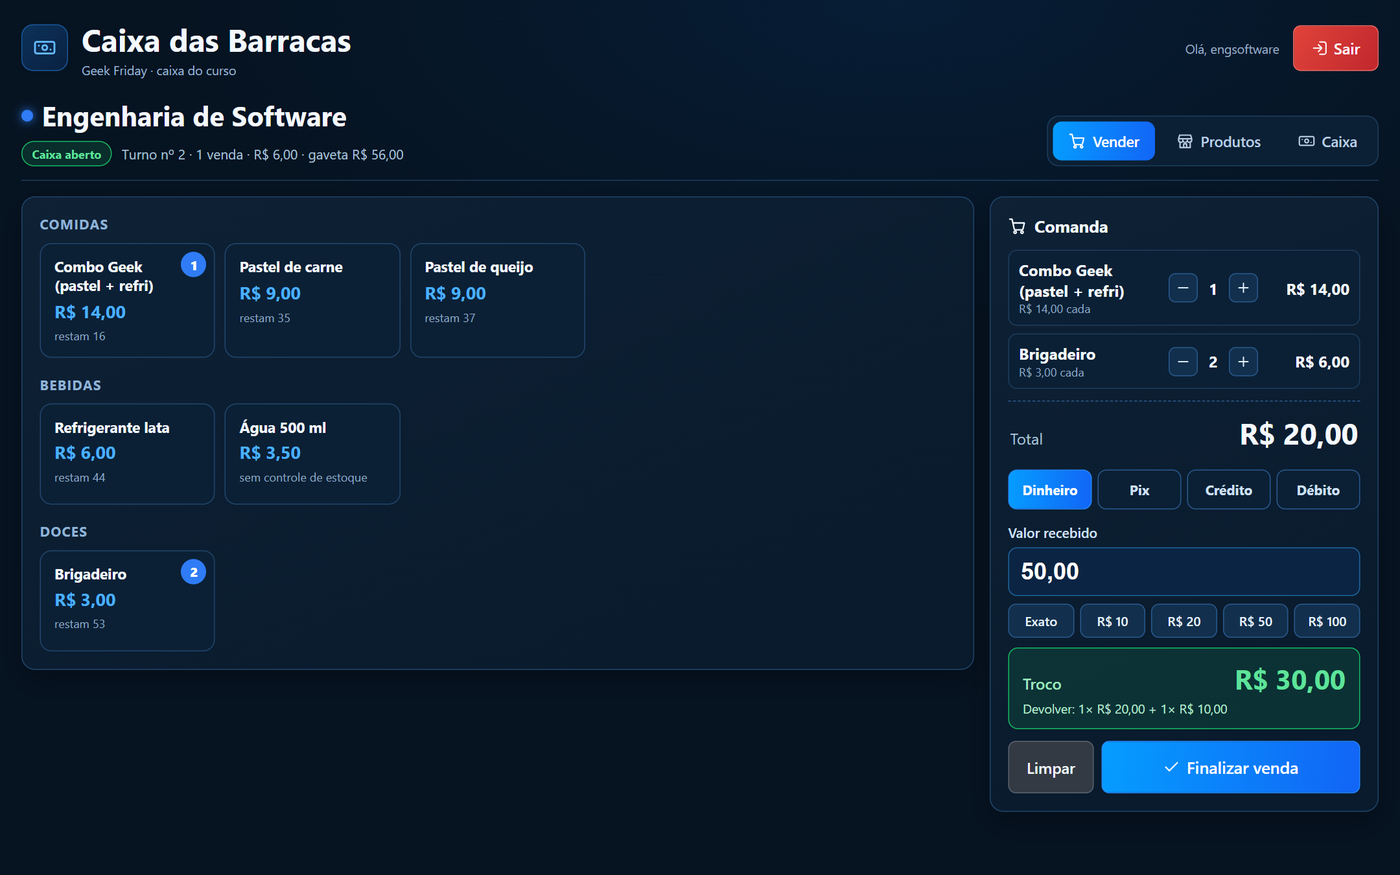
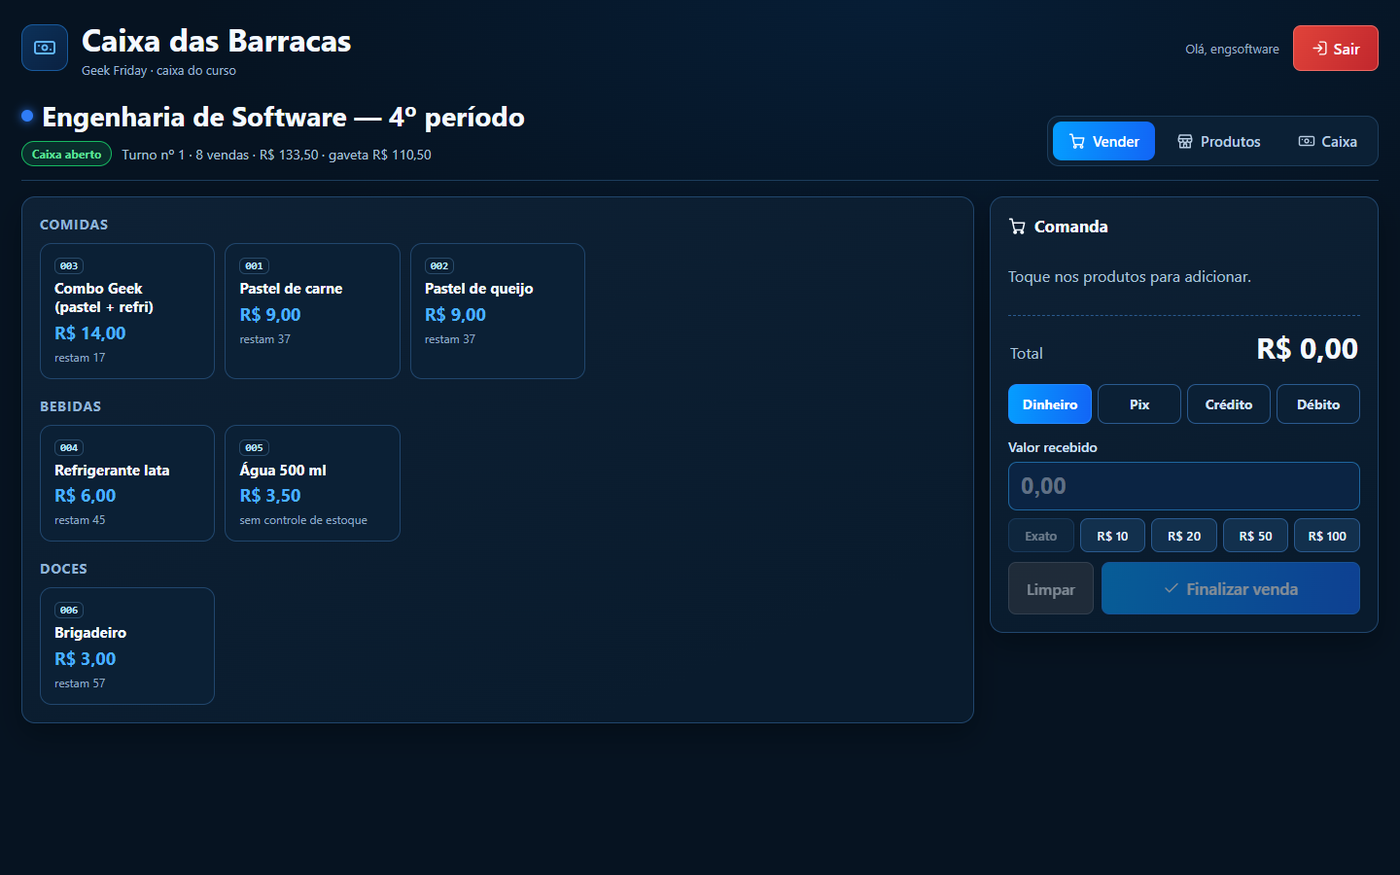
Vitrine: aba Segurança, código de produto, gráficos do turno e barraca própria
Prints novos com dados fictícios, funcionalidades e requisitos do módulo
Segurança, números de testes atualizados e participação no projeto.

diff --git a/README.md b/README.md
@@ -5,7 +5,7 @@
 ![TypeScript](https://img.shields.io/badge/TypeScript-3178C6?logo=typescript&logoColor=white)
 ![Node.js](https://img.shields.io/badge/Node.js-339933?logo=nodedotjs&logoColor=white)
 ![PostgreSQL](https://img.shields.io/badge/PostgreSQL-4169E1?logo=postgresql&logoColor=white)
-![Testes](https://img.shields.io/badge/testes-269_automáticos_+_28_casos-2ea44f)
+![Testes](https://img.shields.io/badge/testes-421_automáticos_+_28_casos-2ea44f)
 
 Sistema web full-stack criado para o **Geek Friday / HallowGeek** da Faculdade Uniguaçu. Ele resolve dois problemas do evento:
 
@@ -39,17 +39,33 @@ O painel mostra indicadores em tempo real, gráficos por tipo de participante e 
 |---|---|
 | ![Escolha do curso](docs/img/04-caixa-escolha-curso.png) | ![Central do caixa](docs/img/05-caixa-central.png) |
 
-**Venda, com comanda e troco sugerido em notas:**
+**Venda, com comanda, código de cada produto e troco sugerido em notas:**
 
 ![Tela de venda](docs/img/06-caixa-vender.png)
 
-**Turno de caixa:** abertura com fundo de troco, sangria e suprimento, fechamento com conferência da gaveta e relatórios guardados por turno.
+**Turno de caixa:** abertura com fundo de troco, relatórios guardados por turno, gráficos de vendas por forma de pagamento e por produto, sangria e suprimento, e fechamento com conferência da gaveta.
 
 ![Turno de caixa](docs/img/07-caixa-turno.png)
 
 | Recibo do turno (imprimir/PDF) | No celular |
 |---|---|
 | ![Recibo](docs/img/08-caixa-recibo.png) | ![Caixa no celular](docs/img/09-caixa-celular.png) |
+
+### Segurança e controle de acesso
+
+Área só do administrador *master*, com grupos de usuários e o que cada grupo pode fazer.
+
+| Permissões de um grupo | Barraca própria do usuário |
+|---|---|
+| ![Permissões do grupo](docs/img/10-seguranca-grupo.png) | ![Barraca própria](docs/img/13-barraca-propria.png) |
+
+**Usuários:** busca, filtros, quem está online, última atividade, editar, definir senha nova e excluir.
+
+![Usuários](docs/img/11-seguranca-usuarios.png)
+
+**Preparar o próximo evento:** limpa cadastros e caixa com senha do master, confirmação digitada e backup completo antes.
+
+![Limpar tudo](docs/img/12-limpar-tudo.png)
 
 ---
 
@@ -70,6 +86,16 @@ O painel mostra indicadores em tempo real, gráficos por tipo de participante e 
 - Turnos de caixa com fundo de troco, sangria e suprimento. No fechamento, o sistema calcula o esperado, recebe o valor contado e mostra a diferença.
 - Relatório de cada turno no formato de recibo (imprimir ou PDF) e exportação CSV compatível com o Excel.
 - Central da organização com o total do evento, as vendas por forma de pagamento e a situação de cada barraca.
+- Uma barraca por curso e período, com link de login próprio.
+- Código automático para cada produto (001, 002…), que aparece na venda, no recibo e no CSV.
+- Gráficos do turno: vendas por forma de pagamento (rosca) e por produto (barras).
+
+**Segurança e controle de acesso**
+- Grupos de usuários (ex.: Portaria, Coordenador, Professor, Aluno/Monitor) com cada funcionalidade ligada ou desligada pelo master.
+- Chaves de acesso por grupo: entrar no painel de cadastros e entrar no caixa das barracas.
+- Barraca própria: o usuário fica ligado a uma barraca e vende só nela, com o próprio login.
+- Gestão de usuários: online agora, última atividade, editar nome e grupo, senha nova (encerra as sessões), desconectar e excluir.
+- "Limpar tudo" para o próximo evento, com inscrições desligadas, senha do master, confirmação digitada e backup completo obrigatório (ou ciência explícita do risco).
 
 ## Arquitetura
 
@@ -93,6 +119,7 @@ flowchart LR
 - **O servidor é a fonte da verdade.** Preço, total, troco, estoque e saldo da gaveta são recalculados no servidor, com os dados do banco. O valor enviado pela tela nunca é usado.
 - **Dinheiro guardado em centavos (inteiros)**, para não ter erro de arredondamento. Venda, baixa de estoque e movimento de caixa são gravados juntos, numa única transação.
 - **Migrações SQL versionadas.** Por exemplo, um índice único parcial garante só um turno aberto por barraca.
+- **Compatível com o banco antigo.** O código detecta se cada migração nova já foi aplicada e, enquanto não foi, funciona como antes. Assim o site pode ser publicado antes de atualizar o banco, sem cair.
 
 ## Segurança
 
@@ -100,15 +127,19 @@ flowchart LR
 - **Limite de tentativas de login:** depois de 5 erros em 15 minutos, aquele login é bloqueado por 15 minutos.
 - **Conferência da origem** em toda requisição que altera dados, contra CSRF.
 - **Isolamento entre barracas:** cada curso só enxerga e altera o próprio caixa, e o servidor confere isso em todas as rotas.
+- **Permissões conferidas no servidor:** cada rota da API checa a permissão do grupo. Esconder um botão na tela não basta.
+- **Ações críticas só do master:** criar e excluir usuários, backup, limpeza e exclusão de barraca com histórico. Elas pedem a senha do master, com limite de tentativas.
+- **Limpeza em uma transação só:** ou apaga tudo, ou nada.
 - **CSV seguro:** a exportação neutraliza fórmulas maliciosas (*CSV injection*).
 - **Privacidade (LGPD):** o caixa não guarda nenhum dado pessoal.
 
 ## Qualidade e testes
 
-- **269 testes automáticos** (Node.js Test Runner), cobrindo regras de negócio, segurança e regressões.
+- **421 testes automáticos** (Node.js Test Runner), cobrindo regras de negócio, segurança, permissões por grupo e regressões.
 - **28 casos de teste do módulo de caixa**, ligados aos requisitos. Os casos CT01 a CT24 rodam por um roteiro automático contra a API, e os casos CT25 a CT28 foram executados no navegador. **Todos foram aprovados.**
 - Especificação completa com **20 requisitos funcionais, 12 não funcionais, 10 regras de negócio, 10 casos de uso** e matriz de rastreabilidade: 👉 [docs/requisitos-e-testes.md](docs/requisitos-e-testes.md)
-- Checagem de tipos com TypeScript no modo estrito.
+- Checagem de tipos com TypeScript no modo estrito e build de produção conferido antes de cada entrega.
+- Migrações testadas num banco vazio (instalação do zero) e num banco igual ao de produção (sem as migrações novas).
 
 ## Tecnologias
 
@@ -126,6 +157,9 @@ flowchart LR
 
 - Desenvolvimento do sistema de inscrições em grupo.
 - **Módulo Caixa das Barracas:** levantamento de requisitos, modelagem do banco (turnos, vendas, movimentos), API, telas e relatórios.
+- **Segurança e controle de acesso:** grupos e permissões verificadas no servidor, gestão de usuários, barraca própria e a limpeza para o próximo evento.
+- **Melhorias do caixa:** código automático dos produtos, gráficos do turno e reorganização dos relatórios.
+- **Integração em equipe:** entrega por *pull request*, juntando as minhas mudanças com as do colega (barracas por curso e período), resolvendo conflitos e corrigindo um erro de sintaxe numa migração.
 - **Qualidade:** especificação dos requisitos, casos de teste, roteiro de testes automatizados da API e matriz de rastreabilidade.
 - Artigo científico e banner apresentados no **VI Encontro de Pesquisa, Extensão e Inovação** da Uniguaçu.
 

diff --git a/docs/requisitos-e-testes.md b/docs/requisitos-e-testes.md
@@ -147,3 +147,20 @@ Atores: **Caixa da barraca** (pessoa do curso que vende) e **Organização** (ad
 | RNF10 | Rastreabilidade do caixa | CT19 |
 | RNF11 | Compatibilidade da exportação | CT27 |
 | RNF12 | Privacidade (LGPD) | verificação de projeto (typecheck, testes automáticos, revisão) |
+
+## Módulo Segurança e controle de acesso
+
+| Código | Requisito | Descrição |
+|---|---|---|
+| RF-S01 | Grupos de usuários | O master cria, renomeia e apaga grupos (só sem usuários) e liga ou desliga cada funcionalidade do grupo. |
+| RF-S02 | Chaves de acesso | Cada grupo tem "Entrar no painel de cadastros" e "Entrar no caixa das barracas"; as funcionalidades dependentes só valem com a chave de acesso ligada. |
+| RF-S03 | Permissão no servidor | Toda rota da API confere a permissão do grupo; a tela só esconde botões por conveniência. |
+| RF-S04 | Gestão de usuários | Lista com busca, filtros, online agora e última atividade; editar nome e grupo, senha nova (encerra sessões), desconectar e excluir. |
+| RF-S05 | Senha do master | O master troca a própria senha informando a atual; as outras sessões dele são encerradas. |
+| RF-S06 | Barraca própria | O usuário é ligado a uma barraca e, com "Operar a própria barraca", vende e abre/fecha o caixa só dela com o próprio login. |
+| RF-S07 | Limpar tudo | Apaga cadastros, QR e todo o caixa (e, se marcado, os usuários), mantendo master, grupos e configurações. |
+| RNF-S01 | Ações críticas protegidas | Limpar tudo exige inscrições desligadas, senha do master com limite de tentativas, confirmação digitada e backup completo recente (ou ciência explícita). |
+| RNF-S02 | Atomicidade | A limpeza acontece numa única transação: ou apaga tudo, ou nada. |
+| RNF-S03 | Compatibilidade | Sem as migrações novas, o sistema funciona como antes (usuários mantêm o acesso padrão). |
+
+**Verificação:** testes automáticos para cada regra (permissões por grupo, dependência das chaves de acesso, rotas exclusivas do master, barraca própria e todas as recusas do "Limpar tudo"), além de testes no navegador com contas de cada grupo. Total do projeto: **421 testes automáticos aprovados**.
